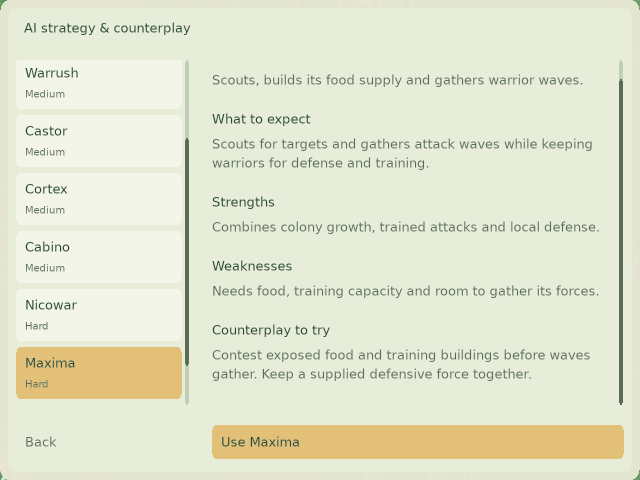
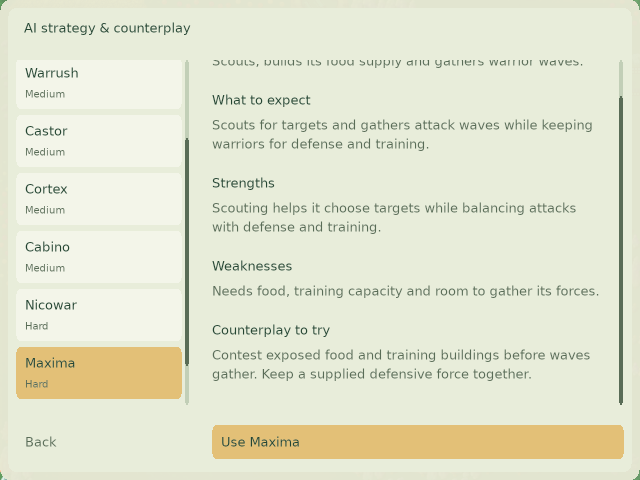
Describe strategic capabilities in AI strengths

Changed region(s): [[0.3125, 0.125, 0.9375, 0.5], [0.9688, 0.1562, 1.0, 0.1875]]

diff --git a/docs/validation/ai-strategy-profiles/README.md b/docs/validation/ai-strategy-profiles/README.md
@@ -61,3 +61,7 @@ Keep version cohorts separate. When the new Maxima results are complete, rerun t
 ![Cortex at 1000×700](cortex-large.png)
 
 These screenshots intentionally show master's existing labels; rating values and ordering belong to #364. Only UI/text and its harness changed, so no simulation equivalence claim is inferred from this validation. Windows/Linux builds have not been run locally for this UI change; CI remains to be checked.
+
+### Strategic strengths wording
+
+The strengths sections describe strategic capabilities rather than naming favorable maps. Castor's food-capacity birth controls are in `castor/Control.cpp::controlSwarms`; Numbi's food/healing/training progression is in `AINumbi.cpp::getOrder`. The other strengths refer to the previously cross-checked production, conversion, wave-support, recruitment and scouting mechanisms. Map associations do not establish that these mechanisms caused the outcomes; no such causal claim is made. The revised wording is descriptive and does not claim superior efficiency or guaranteed resilience. Map-specific weaknesses remain separate.
